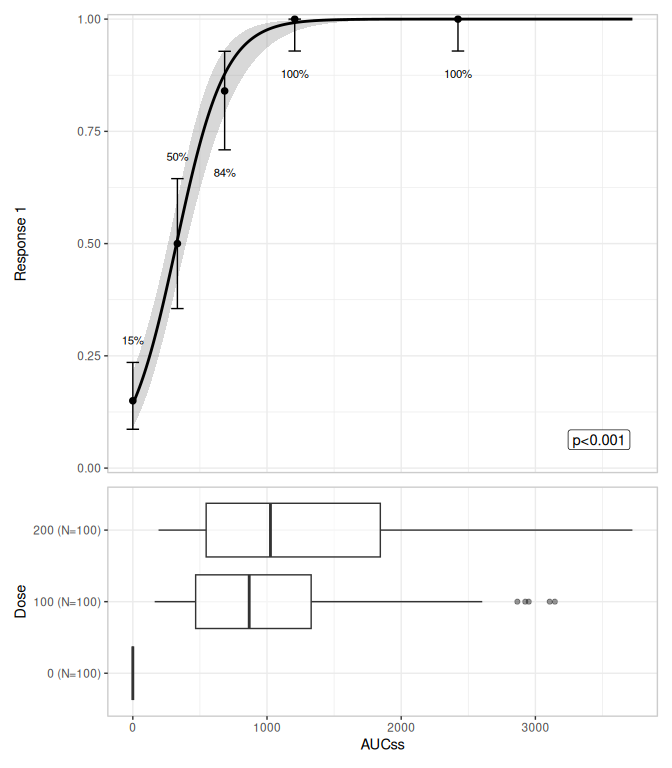
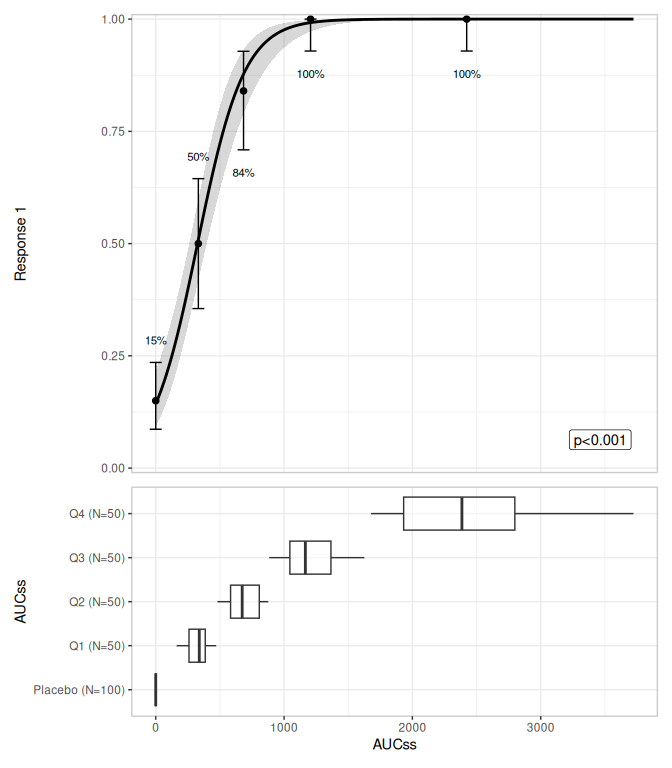
.part_group can discretise continuous grouping variables

diff --git a/README.md b/README.md
@@ -70,7 +70,7 @@ lr_data |>
   lr_plot(aucss, ae1) |> 
   lr_plot_show_model() |> 
   lr_plot_show_quantiles() |> 
-  lr_plot_show_groups(dose) |> 
+  lr_plot_show_groups(aucss) |> 
   plot()
 ```
 
@@ -83,7 +83,7 @@ plt <- lr_data |>
    lr_plot_show_model(keep_strata = FALSE) |> 
    lr_plot_show_quantiles(bins = 3) |> 
    lr_plot_show_datastrip() |> 
-   lr_plot_show_groups(group_by = c(treatment, dose), keep_strata = FALSE)
+   lr_plot_show_groups(group_by = c(aucss, treatment), keep_strata = FALSE)
 
 print(plt)
 #> <erlr_plot>
@@ -95,7 +95,7 @@ print(plt)
 #>     - model:           ae2 ~ aucss
 #>     - quantile:        3 bins
 #>     - strip:           jitter both
-#>     - group:           treatment, dose
+#>     - group:           .aucss_quantile, treatment
 #>   plots built: <none>
 #>   output built: no
 plot(plt)
@@ -108,7 +108,7 @@ plot(plt)
 ``` r
 mod1 <- lr_model(ae1 ~ aucss + sex + dose, lr_data)
 mod2 <- lr_scm_backward(mod1, candidates = c("sex", "dose"))
-#> Using seed = 3068
+#> Using seed = 7932
 lr_scm_history(mod2)
 #> # A tibble: 4 × 11
 #>   iteration attempt step       action term_tested model_tested   model_converged
